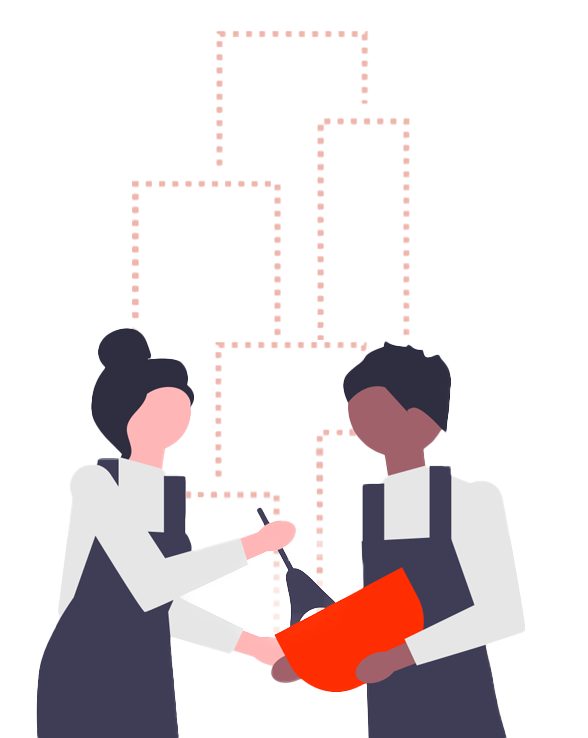
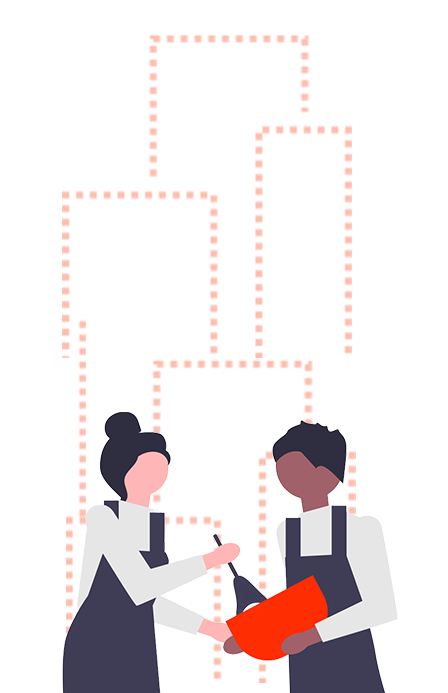
feat(welcomePage): :art: Added svg images

Changed region(s): [[0.0625, 0.0303, 0.9062, 1.0]]

diff --git a/src/pages/welcomePage/WelcomePage.jsx b/src/pages/welcomePage/WelcomePage.jsx
@@ -2,6 +2,7 @@ import {
   Box,
   Button,
   FormControl,
+  Grid,
   IconButton,
   InputAdornment,
   InputLabel,
@@ -15,7 +16,9 @@ import { styled } from "@mui/material/styles";
 import { Link } from "react-router-dom";
 import Typewriter from "typewriter-effect";
 import LocateMe from "@mui/icons-material/MyLocation";
-import feed from "../../assets/feed.svg";
+import FeedbackPng from "../../assets/feedback_illust.png";
+import FoodPng from "../../assets/food_illust.png";
+import ClickPng from "../../assets/click_illust.png";
 
 const LoginBtn = styled(Button)(({ theme }) => ({
   fontFamily: "FuturaPTCondBook",
@@ -54,7 +57,7 @@ export const WelcomePage = () => {
   ];
   return (
     <Box>
-      <Stack width={"100%"} flexDirection={"row"}>
+      <Stack width={"100%"} mb={"25px"} flexDirection={"row"}>
         <Box width={"50%"} padding={"20px"}>
           <Stack
             flexDirection={"row"}
@@ -171,9 +174,49 @@ export const WelcomePage = () => {
         </Box>
         <Box width={"50%"} height={"500px"} className="welcomeMainImg"></Box>
       </Stack>
-      <Stack width={"100%"} height={"300px"} bgcolor={"#EDF2F8"}>
-        <img src={feed} width={"200px"} alt="x" />
-      </Stack>
+      <Grid
+        container
+        spacing={{ xs: 2, sm: 8, md: 3 }}
+        columns={{ xs: 4, sm: 8, md: 12 }}
+        width={"100%"}
+        // height={"300px"}
+        bgcolor={"#EDF2F8"}
+        alignItems={"center"}
+      >
+        <Grid
+          item
+          xs={3}
+          sm={4}
+          md={4}
+          display={"flex"}
+          justifyContent={"center"}
+          alignItems={"center"}
+        >
+          <img src={FeedbackPng} width={"200px"} alt="x" />
+        </Grid>
+        <Grid
+          item
+          xs={3}
+          sm={4}
+          md={4}
+          display={"flex"}
+          justifyContent={"center"}
+          alignItems={"center"}
+        >
+          <img src={FoodPng} width={"200px"} alt="x" />
+        </Grid>
+        <Grid
+          item
+          xs={3}
+          sm={4}
+          md={4}
+          display={"flex"}
+          justifyContent={"center"}
+          alignItems={"center"}
+        >
+          <img src={ClickPng} width={"200px"} alt="x" />
+        </Grid>
+      </Grid>
     </Box>
   );
 };
